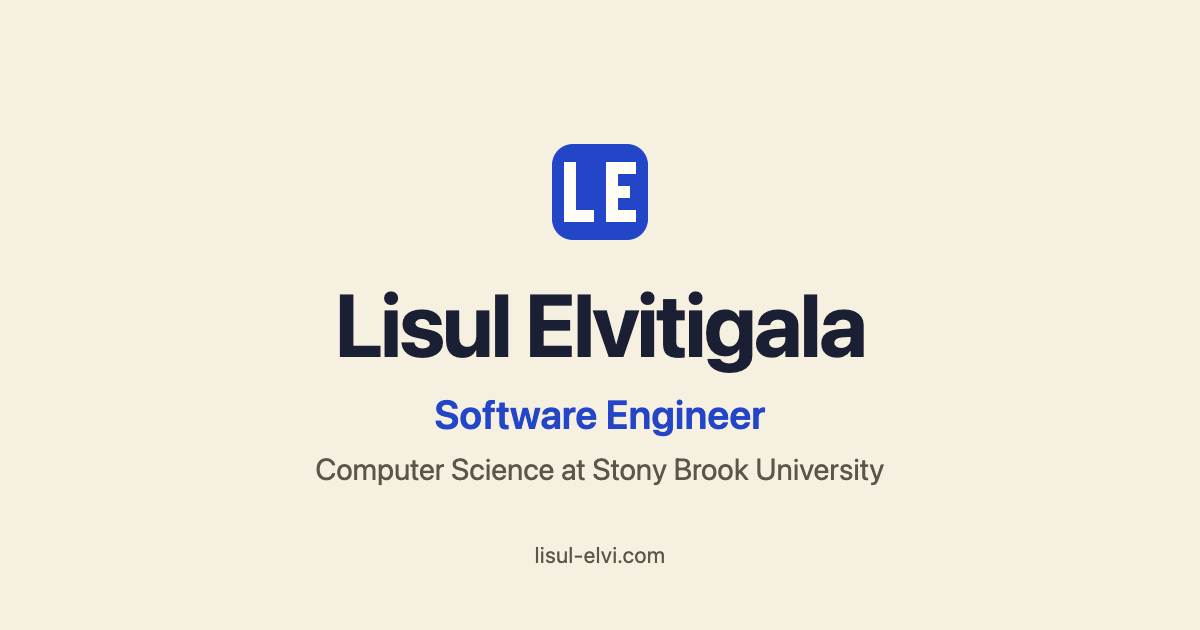
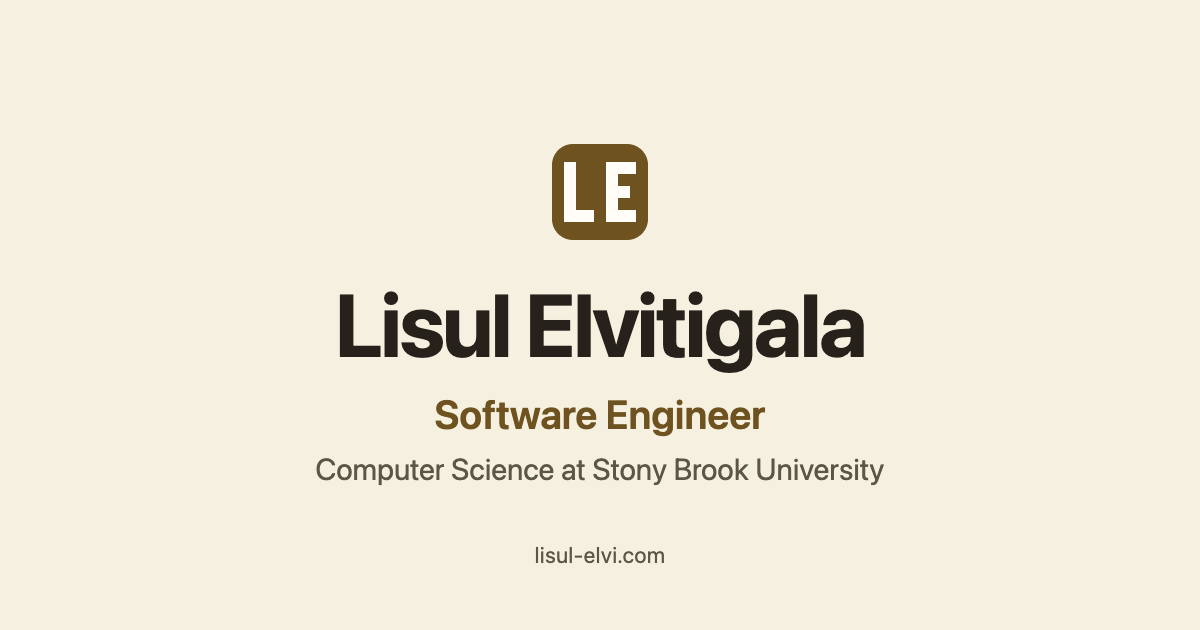
Use warm ink and an antique-gold accent in light mode

Changed region(s): [[0.2775, 0.4524, 0.74, 0.6032], [0.3392, 0.6333, 0.6475, 0.6937], [0.4625, 0.2111, 0.555, 0.3921]]

diff --git a/src/styles/global.css b/src/styles/global.css
@@ -1,13 +1,13 @@
-/* Cream page, ivory cards, one royal blue accent; dark mode is the same warm palette at night, with a
-   sand-gold accent. System fonts, no motion. Dark mode follows the OS until the visitor picks one. */
+/* Cream page, ivory cards, warm ink and one antique-gold accent; dark mode is the same palette at
+   night. System fonts, no motion. Dark mode follows the OS until the visitor picks one. */
 :root {
   --bg: #f6f0e1;
-  --fg: #1b1f33;
+  --fg: #26211a;
   --muted: #5c5648;
   --line: #e3d7ba;
   --chip: #efe5cb;
   --card: #fffdf6;
-  --accent: #2346c8;
+  --accent: #6e5320;
   --accent-fg: #fffdf6;
   --warn: #b45309;
   --danger: #b91c1c;
@@ -170,7 +170,7 @@ section.wrap { padding-top: 2.5rem; padding-bottom: 1rem; scroll-margin-top: 3re
 .prose p, .prose ul { margin: 0 0 1rem; }
 .prose ul { padding-left: 1.2rem; }
 .prose li { margin-bottom: 0.35rem; }
-.todo { background: #fef08a; color: #1b1f33; padding: 0 0.2em; }
+.todo { background: #fef08a; color: #26211a; padding: 0 0.2em; }
 .writeup-end { display: flex; justify-content: space-between; border-top: 1px solid var(--line); margin-top: 2.5rem; padding-top: 1rem; font-weight: 600; }
 /* Drawn figures follow the page's colours, light or dark. */
 .writeup figure svg.fig-svg { max-width: 26rem; margin: 0 auto; font: 13px system-ui, -apple-system, "Segoe UI", Roboto, sans-serif; }
